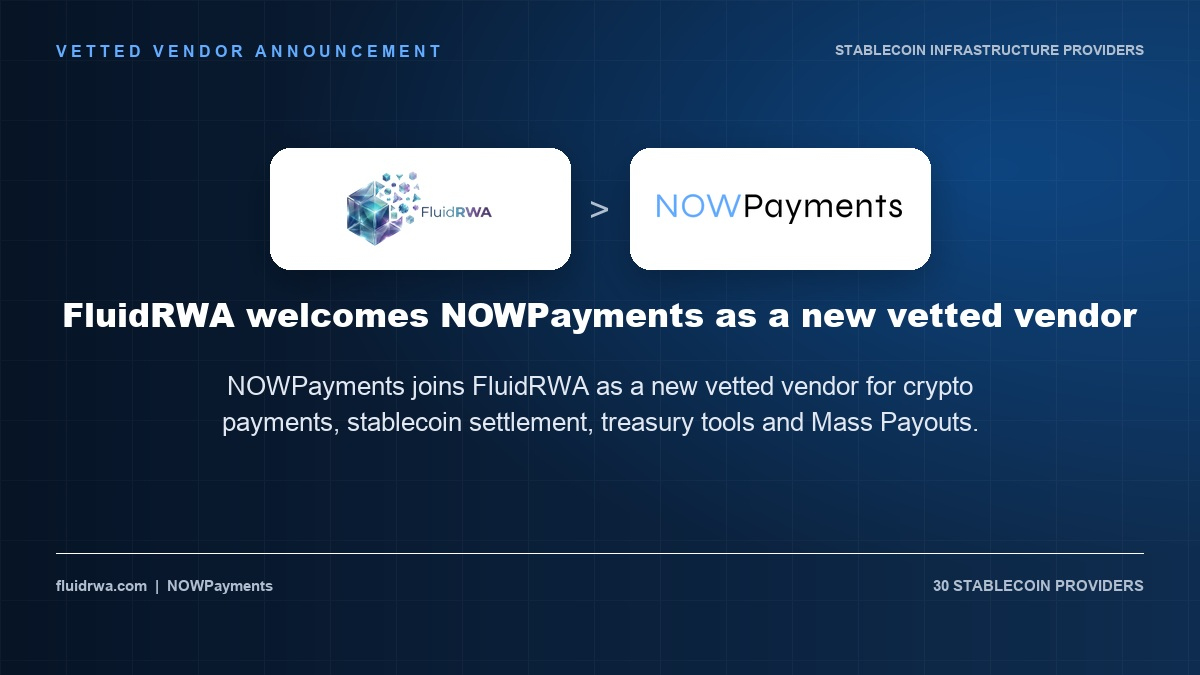
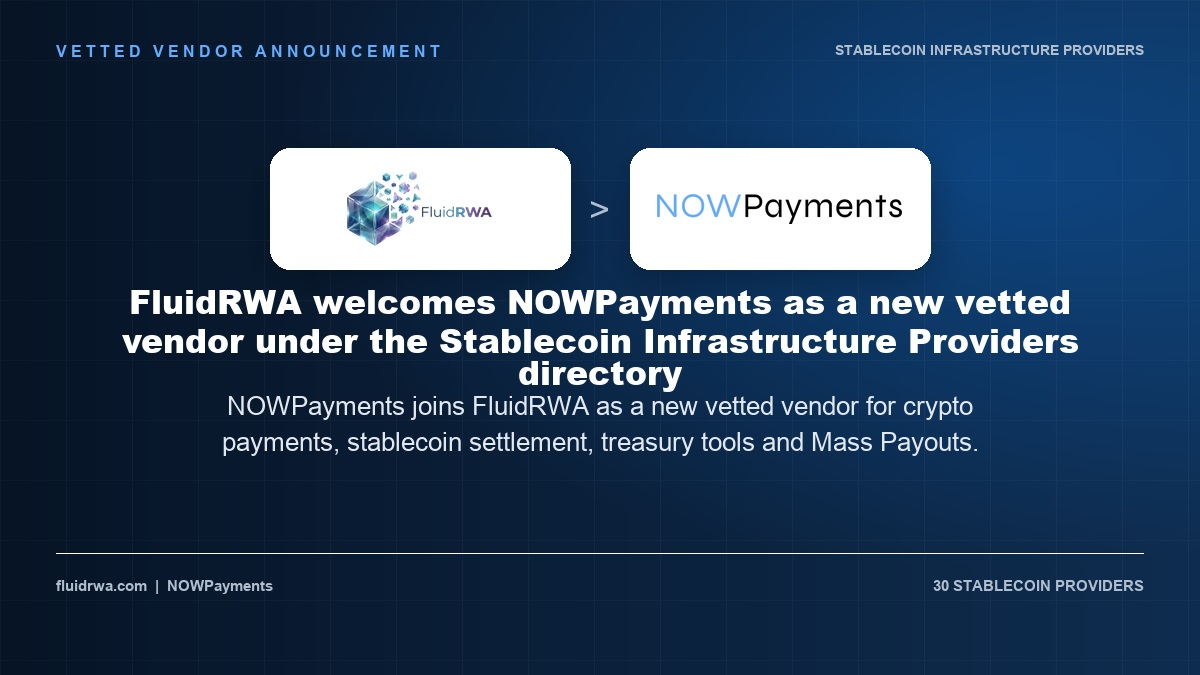
Clarify NOWPayments vetted vendor category

Changed region(s): [[0.0308, 0.4044, 0.9558, 0.6844]]

diff --git a/app/news/nowpayments-featured-on-fluidrwa/page.tsx b/app/news/nowpayments-featured-on-fluidrwa/page.tsx
@@ -4,9 +4,9 @@ import { JsonLd } from "@/components/JsonLd";
 import { siteUrl } from "@/lib/routes";
 
 const pageUrl = `${siteUrl}/news/nowpayments-featured-on-fluidrwa`;
-const title = "FluidRWA Welcomes NOWPayments as a New Vetted Vendor";
+const title = "FluidRWA Welcomes NOWPayments as a New Vetted Vendor Under the Stablecoin Infrastructure Providers Directory";
 const description =
-  "FluidRWA welcomes NOWPayments as a new vetted vendor for crypto payments, stablecoin settlement, treasury operations and mass payouts.";
+  "NOWPayments has joined FluidRWA as a new vetted vendor under the Stablecoin Infrastructure Providers directory.";
 const publishedAt = "2026-09-10T00:00:00.000Z";
 const coverImagePath = "/assets/news/nowpayments-featured-on-fluidrwa-cover.jpg";
 const previewImageUrl = `${siteUrl}/assets/news/nowpayments-featured-on-fluidrwa-og.jpg`;
@@ -29,7 +29,7 @@ export const metadata: Metadata = {
     url: pageUrl,
     type: "article",
     publishedTime: publishedAt,
-    images: [{ url: previewImageUrl, width: 1200, height: 675, alt: "FluidRWA welcomes NOWPayments as a new vetted vendor" }]
+    images: [{ url: previewImageUrl, width: 1200, height: 675, alt: title }]
   },
   twitter: {
     card: "summary_large_image",
@@ -112,7 +112,7 @@ export default function NowPaymentsFeaturedPage() {
           <figure className="news-cover-card news-cover-card--wide" aria-label="NOWPayments vetted vendor announcement cover image">
             <img
               src={coverImagePath}
-              alt="FluidRWA welcomes NOWPayments as a new vetted vendor"
+              alt={title}
               width={1600}
               height={900}
               loading="eager"
@@ -120,8 +120,8 @@ export default function NowPaymentsFeaturedPage() {
             />
           </figure>
           <p>
-            NOWPayments joins FluidRWA as a new vetted vendor, with a dedicated profile covering payment acceptance,
-            settlement, treasury operations and mass payouts.
+            NOWPayments has joined FluidRWA as a new vetted vendor under the Stablecoin Infrastructure Providers
+            directory.
           </p>
           <div className="news-detail-meta">
             <span>New vetted vendor</span>
@@ -134,8 +134,8 @@ export default function NowPaymentsFeaturedPage() {
         <section className="news-answer-box" aria-label="Vendor announcement summary">
           <p className="eyebrow light-eyebrow">Vendor announcement</p>
           <p>
-            FluidRWA welcomes NOWPayments as a new vetted vendor in its Stablecoin Infrastructure Providers directory,
-            giving teams a direct path to research its crypto and stablecoin payment infrastructure.
+            NOWPayments has joined FluidRWA as a new vetted vendor under the Stablecoin Infrastructure Providers
+            directory, giving teams a direct path to research its crypto and stablecoin payment infrastructure.
           </p>
           <div className="news-answer-links">
             <Link href="/fluidrwa/nowpayments">NOWPayments profile</Link>
@@ -151,8 +151,9 @@ export default function NowPaymentsFeaturedPage() {
         </section>
 
         <p>
-          NOWPayments has joined FluidRWA as a new vetted vendor. FluidRWA is a research and vendor discovery platform
-          focused on Web3, tokenization and digital asset infrastructure.
+          NOWPayments has joined FluidRWA as a new vetted vendor under the Stablecoin Infrastructure Providers
+          directory. FluidRWA is a research and vendor discovery platform focused on Web3, tokenization and digital
+          asset infrastructure.
         </p>
         <p>
           FluidRWA's directories help businesses explore providers across payments, settlement, custody, compliance,

diff --git a/lib/marketSignals.ts b/lib/marketSignals.ts
@@ -117,10 +117,10 @@ const fluidRwaNewsItems: NewsItem[] = [
   {
     sourceName: "FluidRWA",
     sourceUrl: "https://www.fluidrwa.com/news",
-    title: "FluidRWA welcomes NOWPayments as a new vetted vendor",
+    title: "FluidRWA welcomes NOWPayments as a new vetted vendor under the Stablecoin Infrastructure Providers directory",
     canonicalUrl: "https://www.fluidrwa.com/news/nowpayments-featured-on-fluidrwa",
     summary:
-      "FluidRWA welcomes NOWPayments as a new vetted vendor for crypto payments, stablecoin settlement, treasury operations and mass payouts.",
+      "NOWPayments has joined FluidRWA as a new vetted vendor under the Stablecoin Infrastructure Providers directory.",
     category: "Stablecoins & Payments",
     publishedAt: "2026-09-10T00:00:00.000Z",
     imageUrl: "/assets/news/nowpayments-featured-on-fluidrwa-cover.jpg"

diff --git a/scripts/create-nowpayments-announcement-images.py b/scripts/create-nowpayments-announcement-images.py
@@ -113,13 +113,12 @@ def create(size, filename):
     bridge = font("Arial.ttf", int(w * 0.03))
     draw.text((w * 0.5, logo_y), ">", font=bridge, fill=muted, anchor="mm")
 
-    headline = "FluidRWA welcomes NOWPayments as a new vetted vendor"
-    box = draw.textbbox((0, 0), headline, font=title_face)
-    draw.text(((w - (box[2] - box[0])) / 2, h * 0.43), headline, font=title_face, fill="white")
+    headline = "FluidRWA welcomes NOWPayments as a new vetted vendor under the Stablecoin Infrastructure Providers directory"
+    draw_centered_wrapped(draw, headline, h * 0.41, title_face, "white", w * 0.88, int(h * 0.012))
     draw_centered_wrapped(
         draw,
         "NOWPayments joins FluidRWA as a new vetted vendor for crypto payments, stablecoin settlement, treasury tools and Mass Payouts.",
-        h * 0.55,
+        h * 0.58,
         body,
         (226, 232, 242, 238),
         w * 0.64,
